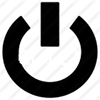
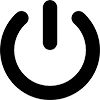
hopefully got show network up and running
also refined the buttons

Changed region(s): [[0.0, 0.09, 1.0, 1.0], [0.39, 0.0, 0.6, 0.51]]

diff --git a/src/edu/utexas/cs/nn/tasks/picbreeder/PicbreederTask.java b/src/edu/utexas/cs/nn/tasks/picbreeder/PicbreederTask.java
@@ -3,6 +3,8 @@ package edu.utexas.cs.nn.tasks.picbreeder;
 import java.awt.Color;
 import java.awt.Component;
 import java.awt.Font;
+import java.awt.Graphics;
+import java.awt.Graphics2D;
 import java.awt.GridLayout;
 import java.awt.event.ActionEvent;
 import java.awt.event.ActionListener;
@@ -46,6 +48,9 @@ public class PicbreederTask<T extends Network> implements SinglePopulationTask<T
 	private static final int SAVE_BUTTON_INDEX = -2;
 	private static final int RESET_BUTTON_INDEX = -3;
 	private static final int CLOSE_BUTTON_INDEX	= -4;
+	private static final int LINEAGE_BUTTON_INDEX = -5;
+	private static final int NETWORK_BUTTON_INDEX = -6;
+	private static final int UNDO_BUTTON_INDEX = -7;
 	private static final int BORDER_THICKNESS = 4;
 	private static final int TOP_PANEL_INDEX = 0;
 	//Private final variables
@@ -60,6 +65,7 @@ public class PicbreederTask<T extends Network> implements SinglePopulationTask<T
 	private ArrayList<Score<T>> scores;
 
 	//private helper variables
+	private boolean showNetwork;
 	private boolean waitingForUser;
 	private boolean[] chosen;
 	private int saveIndex;
@@ -85,6 +91,7 @@ public class PicbreederTask<T extends Network> implements SinglePopulationTask<T
 		PIC_SIZE = size;
 		NUM_BUTTONS	= Parameters.parameters.integerParameter("mu");
 		chosen = new boolean[NUM_BUTTONS];
+		showNetwork = false;
 		waitingForUser = false;
 		saveIndex = 0;
 		//Graphics instantiations
@@ -106,24 +113,39 @@ public class PicbreederTask<T extends Network> implements SinglePopulationTask<T
 		JButton saveButton = new JButton(new ImageIcon("data\\picbreeder\\save.png"));
 		JButton evolveButton = new JButton(new ImageIcon("data\\picbreeder\\arrow.png"));
 		JButton closeButton = new JButton(new ImageIcon("data\\picbreeder\\quit.png"));
-		JLabel label = new JLabel("Picture Evolver");
+		JButton lineageButton = new JButton(new ImageIcon("data\\picbreeder\\lineage.png"));
+		JButton networkButton = new JButton(new ImageIcon("data\\picbreeder\\network.png"));
+		JButton undoButton = new JButton( new ImageIcon("data\\picbreeder\\undo.png"));
+		//JLabel label = new JLabel("Picture Evolver");
+		
 		//set graphic names
-		evolveButton.setName("" + -1);
-		saveButton.setName("" + -2);
-		resetButton.setName("" + -3);
-		closeButton.setName("" + -4);
-		label.setFont(new Font("Serif", Font.BOLD, 48));
-		label.setForeground(Color.DARK_GRAY);
+		evolveButton.setName("" + EVOLVE_BUTTON_INDEX);
+		saveButton.setName("" + SAVE_BUTTON_INDEX);
+		resetButton.setName("" + RESET_BUTTON_INDEX);
+		closeButton.setName("" + CLOSE_BUTTON_INDEX);
+		lineageButton.setName("" + LINEAGE_BUTTON_INDEX);
+		networkButton.setName("" + NETWORK_BUTTON_INDEX);
+		undoButton.setName("" + UNDO_BUTTON_INDEX);
+		
+		//label.setFont(new Font("Serif", Font.BOLD, 48));
+		//label.setForeground(Color.DARK_GRAY);
+		
 		//add action listeners
 		resetButton.addActionListener(this);
 		saveButton.addActionListener(this);
 		evolveButton.addActionListener(this);
 		closeButton.addActionListener(this);
+		lineageButton.addActionListener(this);
+		networkButton.addActionListener(this);
+		undoButton.addActionListener(this);
+		
 		//add graphics to title panel
+		top.add(lineageButton);
+		top.add(networkButton);
 		top.add(resetButton);
-		top.add(saveButton);
-		top.add(label);
 		top.add(evolveButton);
+		top.add(saveButton);
+		top.add(undoButton);
 		top.add(closeButton);
 		panels.add(top);
 
@@ -205,6 +227,12 @@ public class PicbreederTask<T extends Network> implements SinglePopulationTask<T
 	public void finalCleanup() {
 	}
 
+	private void resetButton(BufferedImage gmi, int buttonIndex){ 
+		ImageIcon img = new ImageIcon(gmi);
+		buttons.get(buttonIndex).setName("" + buttonIndex);
+		buttons.get(buttonIndex).setIcon(img);
+		chosen[buttonIndex] = false;
+	}
 	private void save(int i, int x, JButton button) {
 //		JTextField saveName = new JTextField("image " + x, 30);
 //		saveName.addActionListener(this);
@@ -216,6 +244,14 @@ public class PicbreederTask<T extends Network> implements SinglePopulationTask<T
 		p.setLocation(x, 0);
 		p.save("image " + i + ".bmp");
 		System.out.println("image number " + i++ + " was saved successfully");
+	}
+	
+	private BufferedImage getNetwork(Genotype<T> tg) {
+		T pheno = tg.getPhenotype();
+		DrawingPanel network = new DrawingPanel(PIC_SIZE, PIC_SIZE, "network");
+		((TWEANN) pheno).draw(network);
+		return network.image;
+		
 	}
 	/**
 	 * evaluates all genotypes in a population
@@ -231,10 +267,7 @@ public class PicbreederTask<T extends Network> implements SinglePopulationTask<T
 		}
 		for(int x = 0; x < buttons.size(); x++) {
 			scores.add(new Score<T>(population.get(x), new double[]{0}, null));
-			ImageIcon img = new ImageIcon(GraphicsUtil.imageFromCPPN((Network)population.get(x).getPhenotype(), PIC_SIZE, PIC_SIZE));
-			buttons.get(x).setName("" + x);
-			buttons.get(x).setIcon(img);
-			chosen[x] = false;
+			resetButton(GraphicsUtil.imageFromCPPN((Network)population.get(x).getPhenotype(), PIC_SIZE, PIC_SIZE), x);
 			buttons.get(x).setBorder(BorderFactory.createLineBorder(Color.lightGray, BORDER_THICKNESS));
 		}
 		while(waitingForUser){
@@ -273,7 +306,24 @@ public class PicbreederTask<T extends Network> implements SinglePopulationTask<T
 					x += buttons.get(i).getWidth();
 				}
 			}
-		} else if(scoreIndex == EVOLVE_BUTTON_INDEX && BooleanUtil.any(chosen)) {//If evolve button clicked
+		} else if(scoreIndex == LINEAGE_BUTTON_INDEX) {
+			
+		} else if(scoreIndex == NETWORK_BUTTON_INDEX) {
+			if(showNetwork) {
+				showNetwork = false;
+				int x = scores.indexOf(event.getSource());
+				resetButton(GraphicsUtil.imageFromCPPN((Network)scores.get(x).individual.getPhenotype(), PIC_SIZE, PIC_SIZE), x);
+			} else {
+				for(int i = 0; i < buttons.size(); i++) {
+					showNetwork = true;
+					BufferedImage network = getNetwork(scores.get(i).individual);
+					resetButton(network, i);
+				}
+				
+			}
+		} else if(scoreIndex == UNDO_BUTTON_INDEX) {
+			
+		}else if(scoreIndex == EVOLVE_BUTTON_INDEX && BooleanUtil.any(chosen)) {//If evolve button clicked
 			System.out.println("congratulations you pressed the evolve button");
 			System.out.println("scores: " + scores);	
 			System.out.println("boolean values: " + Arrays.toString(chosen));

diff --git a/src/edu/utexas/cs/nn/graphics/DrawingPanel.java b/src/edu/utexas/cs/nn/graphics/DrawingPanel.java
@@ -31,7 +31,7 @@ public class DrawingPanel implements ActionListener {
 	private int width, height; // dimensions of window frame
 	private JFrame frame; // overall window frame
 	private JPanel panel; // overall drawing surface
-	private BufferedImage image; // remembers drawing commands
+	public BufferedImage image; // remembers drawing commands
 	private Graphics2D g2; // graphics context for painting
 	private JLabel statusBar; // status bar showing mouse position
 	private long createTime;
